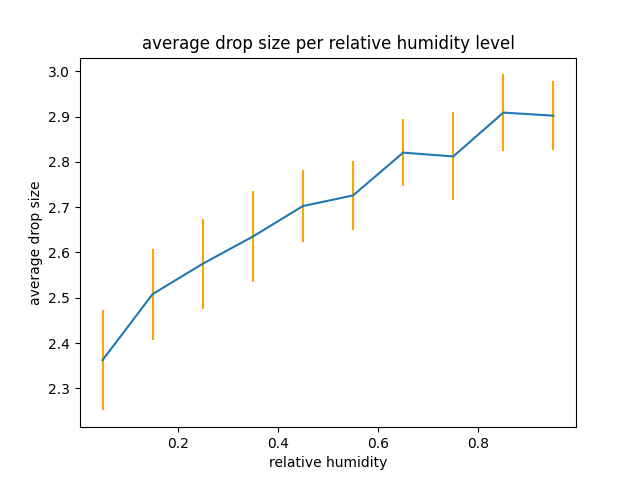
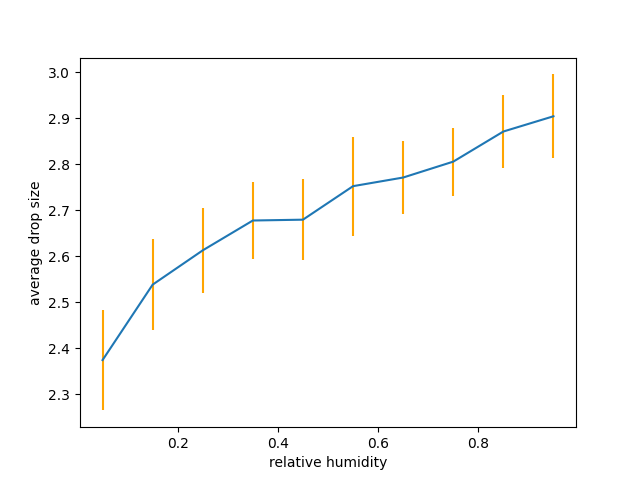
final plots

diff --git a/wind_and_dropssplitting.py b/wind_and_dropssplitting.py
@@ -209,7 +209,6 @@ def plot_humidities(humidities, y, y_std,axis_name):
     plt.errorbar(humidities, y, yerr=y_std, ecolor='orange')
     plt.xlabel('relative humidity')
     plt.ylabel(f'average {axis_name}')
-    plt.title(f'average {axis_name} per relative humidity level')
     plt.savefig(f'figures/{axis_name}_humidity')
 
 """run experiments and collect data"""
@@ -263,7 +262,7 @@ def run_experiment(height,width,humidity,wind_direction,steps,fall_heigth,probab
     total_mean_list = []
     max_drop_mean_list = []
 
-    n = 20
+    n = 40
     for i in range(n):
         averages,rain_count_list,total_drops_list,max_drop_size_list = run_simulation(grid,wind,steps,fall_heigth,probablility_new_drop,probability_split_drop)
         rain_mean_list.append(np.mean(rain_count_list))
